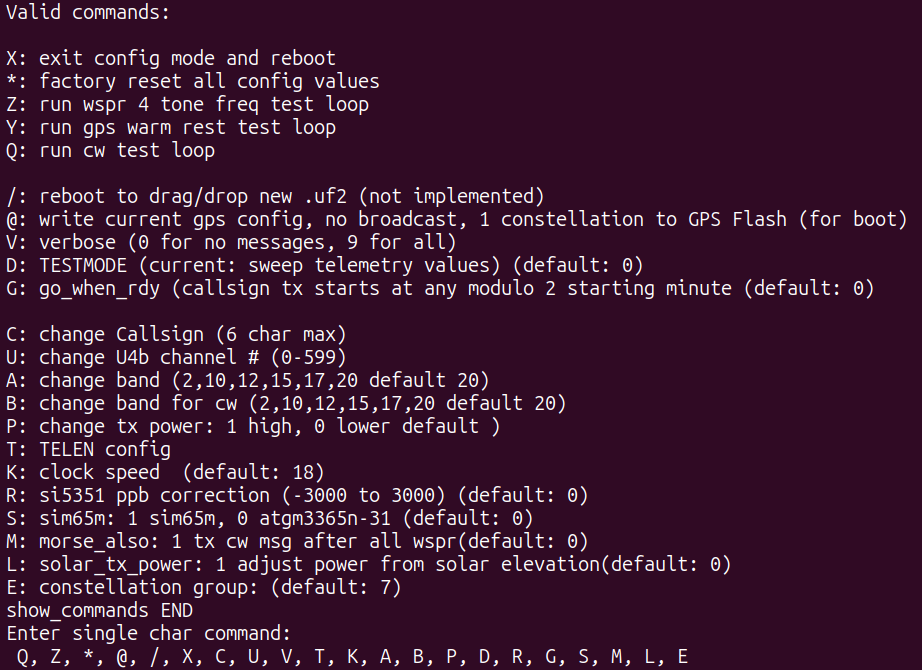
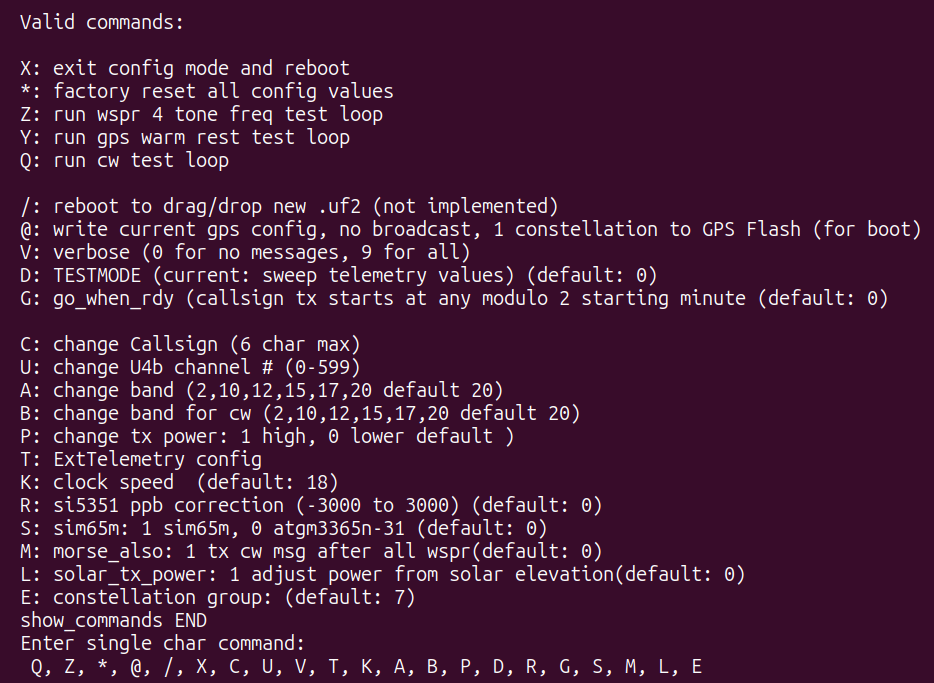
updated all the old TELEN/telen names to ExtTelemetry. only Extended Telemetry is supported, not old u4b TELEN encodings.

Changed region(s): [[0.0, 0.4776, 0.82, 1.0], [0.0, 0.0, 1.0, 0.4478]]

diff --git a/tracker/tele_functions.cpp b/tracker/tele_functions.cpp
@@ -52,10 +52,10 @@ extern TinyGPSCustom gp_hdop;
 extern TinyGPSCustom gp_vdop;
 
 
-extern int TELEN1_val1;
-extern int TELEN1_val2;
-extern int TELEN2_val1;
-extern int TELEN2_val2;
+extern int ExtTelemetry1_val1;
+extern int ExtTelemetry1_val2;
+extern int ExtTelemetry2_val1;
+extern int ExtTelemetry2_val2;
 
 // FIX! update this based on solar elevation
 extern uint8_t SOLAR_SI5351_TX_POWER;
@@ -280,14 +280,14 @@ void snapForTelemetry() {
     voltage = clamp_float(voltage, 0, 99.99);
     snprintf(tt.voltage, sizeof(tt.voltage), "%.2f", voltage);
 
-    // FIX! could use this for some TELEN telemetry?
+    // FIX! could use this for some Extended Telemetry
     int hdop = gps.hdop.isValid() ? (int) gps.hdop.value() : 0;
     // hundredths. <100 is very good
     // can get >999 from the gps, but we don't tx it (usually?)
     hdop = clamp_int(hdop, 0, 999);
     snprintf(tt.hdop, sizeof(tt.hdop), "%d", hdop);
 
-    // FIX! could use this for some TELEN telemetry?
+    // FIX! could use this for some Extended Telemetry
     int sat_count = gps.satellites.isValid() ? (int) gps.satellites.value() : 0;
     sat_count = clamp_int(sat_count, 0, 99);
     snprintf(tt.sat_count, sizeof(tt.sat_count), "%d", sat_count);
@@ -381,10 +381,10 @@ void snapForTelemetry() {
 
     //*********************************
     // snap for consistency with everything else (all at one instant in time)
-    tt.TELEN1_val1 = TELEN1_val1;
-    tt.TELEN1_val2 = TELEN1_val2;
-    tt.TELEN2_val1 = TELEN2_val1;
-    tt.TELEN2_val2 = TELEN2_val2;
+    tt.ExtTelemetry1_val1 = ExtTelemetry1_val1;
+    tt.ExtTelemetry1_val2 = ExtTelemetry1_val2;
+    tt.ExtTelemetry2_val1 = ExtTelemetry2_val1;
+    tt.ExtTelemetry2_val2 = ExtTelemetry2_val2;
 
     bool validA = gps.satellites.isValid() && !GpsInvalidAll;
     // bool validB = gps.hdop.isValid() && !GpsInvalidAll;
@@ -468,10 +468,10 @@ void snapForTelemetry() {
     V1_printf("tt.temp_ext %s" EOL, tt.temp);
     V1_printf("tt.pressure %s " EOL, tt.pressure);
 
-    // V1_printf("tt.TELEN1_val1 %d " EOL, tt.TELEN1_val1);
-    // V1_printf("tt.TELEN1_val2 %d " EOL, tt.TELEN1_val2);
-    // V1_printf("tt.TELEN2_val1 %d " EOL, tt.TELEN2_val1);
-    // V1_printf("tt.TELEN2_val2 %d " EOL, tt.TELEN2_val2);
+    // V1_printf("tt.ExtTelemetry1_val1 %d " EOL, tt.ExtTelemetry1_val1);
+    // V1_printf("tt.ExtTelemetry1_val2 %d " EOL, tt.ExtTelemetry1_val2);
+    // V1_printf("tt.ExtTelemetry2_val1 %d " EOL, tt.ExtTelemetry2_val1);
+    // V1_printf("tt.ExtTelemetry2_val2 %d " EOL, tt.ExtTelemetry2_val2);
 
     V1_printf("tt.gp_sats %s " EOL, tt.gp_sats);
     V1_printf("tt.gb_sats %s " EOL, tt.gb_sats);
@@ -487,8 +487,8 @@ void snapForTelemetry() {
 }
 
 //****************************************************
-void process_TELEN_data(void) {
-    V1_println(F("process_TELEN_data START"));
+void process_ExtTele_data(void) {
+    V1_println(F("process_ExtTele_data START"));
     // minutes_since_GPS_acquistion (should this be last time to fix);
     // we don't send stuff out if we don't get gps acquistion.
     // so minutes since fix doesn't really matter?
@@ -498,53 +498,53 @@ void process_TELEN_data(void) {
     // the 12 bit shift is because thats resolution of ADC
     const float conversionFactor = 3300.0f / (1 << 12);
 
-    uint32_t telen_values[4] = { 0 };
+    uint32_t telemetry_vals[4] = { 0 };
     uint32_t timeSinceBoot_secs = millis() / 1000UL;  // seconds
     for (int i=0; i < 4; i++) {
         // no negative values here
-        switch (cc._TELEN_config[i]) {
-            case '-':  break;  // do nothing, telen chan is disabled
+        switch (cc._ExtTelemetry[i]) {
+            case '-':  break;  // do nothing
             case '0':
-                telen_values[i] = round((float)analogRead(0) * conversionFactor);
+                telemetry_vals[i] = round((float)analogRead(0) * conversionFactor);
                 break;
             case '1':
-                telen_values[i] = round((float)analogRead(1) * conversionFactor);
+                telemetry_vals[i] = round((float)analogRead(1) * conversionFactor);
                 break;
             case '2':
-                telen_values[i] = round((float)analogRead(2) * conversionFactor);
+                telemetry_vals[i] = round((float)analogRead(2) * conversionFactor);
                 break;
             case '3':
                 // ADC3 is hardwired to Battery via 3:1 voltage divider: make the conversion here
-                telen_values[i] = round((float)analogRead(3) * conversionFactor * 3.0f);
+                telemetry_vals[i] = round((float)analogRead(3) * conversionFactor * 3.0f);
                 break;
             case '4':
-                telen_values[i] = timeSinceBoot_secs;  // seconds since running
+                telemetry_vals[i] = timeSinceBoot_secs;  // seconds since running
                 break;
             case '5':
-                telen_values[i] = GpsTimeToLastFix; 
+                telemetry_vals[i] = GpsTimeToLastFix; 
                 break;
             case '6':
-                telen_values[i] = tx_cnt_0;
+                telemetry_vals[i] = tx_cnt_0;
                 break;
             case '7':
-                telen_values[i] = atoi(tt.sat_count);
+                telemetry_vals[i] = atoi(tt.sat_count);
                 break;
             case '8':
-                telen_values[i] = atoi(tt.hdop);  // hundredths
+                telemetry_vals[i] = atoi(tt.hdop);  // hundredths
                 break;
             case '9': { ; }
-                telen_values[i] = 0;
+                telemetry_vals[i] = 0;
         }
     }
-    // will get sent as TELEN #1 (extended Telemetry) (a third packet in the U4B protocol)
-    TELEN1_val1 = telen_values[0];
+    // will get sent as ExtTele #1 (extended Telemetry) (a third packet in the U4B protocol)
+    ExtTelemetry1_val1 = telemetry_vals[0];
     // max values are 630k and 153k for val and val2
-    TELEN1_val2 = telen_values[1];
-    // will get sent as TELEN #2 (extended Telemetry) (a 4th packet in the U4B protocol)
-    TELEN2_val1 = telen_values[2];
+    ExtTelemetry1_val2 = telemetry_vals[1];
+    // will get sent as ExtTele #2 (extended Telemetry) (a 4th packet in the U4B protocol)
+    ExtTelemetry2_val1 = telemetry_vals[2];
     // max values are 630k and 153k for val and val2
-    TELEN2_val2 = telen_values[3];
-    V1_println(F("process_TELEN_data END"));
+    ExtTelemetry2_val2 = telemetry_vals[3];
+    V1_println(F("process_ExtTele_data END"));
 }
 //****************************************************
 // isFloat tells you the string is float not string
@@ -616,20 +616,20 @@ void telemetrySweepAllForTest(void) {
     doTelemetrySweepInteger(tt.hdop, 3, 0, 999, 1);              // 3 bytes
 
     // not sure of what the range is (max for the integer allowed?)
-    static char telen1_str1[25] = { 0 };
-    static char telen1_str2[25] = { 0 };
-    static char telen2_str1[25] = { 0 };
-    static char telen2_str2[25] = { 0 };
+    static char telemetry1_str1[25] = { 0 };
+    static char telemetry1_str2[25] = { 0 };
+    static char telemetry2_str1[25] = { 0 };
+    static char telemetry2_str2[25] = { 0 };
 
-    doTelemetrySweepInteger(telen1_str1, 24, 0, 999, 1);  // 3 bytes
-    doTelemetrySweepInteger(telen1_str2, 24, 0, 999, 1);  // 3 bytes
-    doTelemetrySweepInteger(telen2_str1, 24, 0, 999, 1);  // 3 bytes
-    doTelemetrySweepInteger(telen2_str2, 24, 0, 999, 1);  // 3 bytes
+    doTelemetrySweepInteger(telemetry1_str1, 24, 0, 999, 1);  // 3 bytes
+    doTelemetrySweepInteger(telemetry1_str2, 24, 0, 999, 1);  // 3 bytes
+    doTelemetrySweepInteger(telemetry2_str1, 24, 0, 999, 1);  // 3 bytes
+    doTelemetrySweepInteger(telemetry2_str2, 24, 0, 999, 1);  // 3 bytes
 
-    tt.TELEN1_val1 = atoi(telen1_str1);  // int
-    tt.TELEN1_val2 = atoi(telen1_str2);  // int
-    tt.TELEN2_val1 = atoi(telen2_str1);  // int
-    tt.TELEN2_val2 = atoi(telen2_str2);  // int
+    tt.ExtTelemetry1_val1 = atoi(telemetry1_str1);  // int
+    tt.ExtTelemetry1_val2 = atoi(telemetry1_str2);  // int
+    tt.ExtTelemetry2_val1 = atoi(telemetry2_str1);  // int
+    tt.ExtTelemetry2_val2 = atoi(telemetry2_str2);  // int
 
     V1_printf("TESTMODE tt.course: %s" EOL, tt.course);
     V1_printf("TESTMODE tt.speed: %s" EOL, tt.speed);
@@ -643,10 +643,10 @@ void telemetrySweepAllForTest(void) {
     V1_printf("TESTMODE tt.sat_count: %s" EOL, tt.sat_count);
     V1_printf("TESTMODE tt.hdop: %s" EOL, tt.hdop);
 
-    V1_printf("TESTMODE tt.TELEN1_val1: %x" EOL, tt.TELEN1_val1);
-    V1_printf("TESTMODE tt.TELEN1_val2: %x" EOL, tt.TELEN1_val2);
-    V1_printf("TESTMODE tt.TELEN2_val1: %x" EOL, tt.TELEN2_val1);
-    V1_printf("TESTMODE tt.TELEN2_val2: %x" EOL, tt.TELEN2_val2);
+    V1_printf("TESTMODE tt.ExtTelemetry1_val1: %x" EOL, tt.ExtTelemetry1_val1);
+    V1_printf("TESTMODE tt.ExtTelemetry1_val2: %x" EOL, tt.ExtTelemetry1_val2);
+    V1_printf("TESTMODE tt.ExtTelemetry2_val1: %x" EOL, tt.ExtTelemetry2_val1);
+    V1_printf("TESTMODE tt.ExtTelemetry2_val2: %x" EOL, tt.ExtTelemetry2_val2);
 
     V1_println(F("telemetrySweepAllForTest END"));
 }

diff --git a/tracker/config_functions.cpp b/tracker/config_functions.cpp
@@ -243,23 +243,23 @@ void config_intro(void) {
 }
 
 //***************************************
-void show_TELEN_msg() {
-    V0_print(F("show_TELEN_msg()"));
+void show_ExtTelemetry_msg() {
+    V0_print(F("show_ExtTelemetry_msg()"));
     V0_print(F(EOL "Telen Types:" EOL EOL));
     V0_print(F(BRIGHT UNDERLINE_ON));
-    V0_print(F(EOL EOL EOL EOL "TELEN CONFIG INSTRUCTIONS:" EOL EOL));
+    V0_print(F(EOL EOL EOL EOL "ExtTelemetry CONFIG INSTRUCTIONS:" EOL EOL));
     V0_print(F(UNDERLINE_OFF NORMAL));
-    V0_print(F("* There are 4 possible TELEN values, corresponding to TELEN 1 value 1," EOL));
-    V0_print(F("  TELEN 1 value 2, TELEN 2 value 1 and TELEN 2 value 2." EOL));
-    V0_print(F("* Enter 4 characters (legal 0-9 or -) in TELEN_config." EOL));
+    V0_print(F("* There are 4 possible ExtTelemetry values, corresponding to ExtTelemetry 1 value 1," EOL));
+    V0_print(F("  ExtTelemetry 1 value 2, ExtTelemetry 2 value 1 and ExtTelemetry 2 value 2." EOL));
+    V0_print(F("* Enter 4 characters (legal 0-9 or -) in ExtTelemetry." EOL));
     V0_print(F("  use a '-' (minus) to disable one or more values." EOL));
     V0_print(F("  example:" EOL));
     V0_print(F("  '----' disables all telen " EOL));
     V0_print(F("* example:" EOL));
     V0_print(F("  '01--'" EOL));
-    V0_print(F("    Telen 1 value 1 to type 0" EOL));
-    V0_print(F("    Telen 1 value 2 to type 1" EOL));
-    V0_print(F("    disables all of TELEN 2" EOL));
+    V0_print(F("    ExtTelemetry 1 value 1 to type 0" EOL));
+    V0_print(F("    ExtTelemetry 1 value 2 to type 1" EOL));
+    V0_print(F("    disables all of ExtTelemetry 2" EOL));
 
     V0_print(F(BRIGHT UNDERLINE_ON));
     V0_print(F(EOL "Telen Types:" EOL EOL));
@@ -494,10 +494,10 @@ void user_interface(void) {
                 write_FLASH();
                 break;
             case 'T':
-                show_TELEN_msg();
-                get_user_input("Enter TELEN config: " EOL,
-                    cc._TELEN_config, sizeof(cc._TELEN_config));
-                convertToUpperCase(cc._TELEN_config);
+                show_ExtTelemetry_msg();
+                get_user_input("Enter ExtTelemetry config: " EOL,
+                    cc._ExtTelemetry, sizeof(cc._ExtTelemetry));
+                convertToUpperCase(cc._ExtTelemetry);
                 write_FLASH();
                 break;
             case 'K':
@@ -729,7 +729,7 @@ int read_FLASH(void) {
     // FIX! should we just use snprintf?
     strncpy(cc._callsign,        flash_target_contents + 0,  6); cc._callsign[6] = 0;
     strncpy(cc._verbose,         flash_target_contents + 6,  1); cc._verbose[1] = 0;
-    strncpy(cc._TELEN_config,    flash_target_contents + 7,  4); cc._TELEN_config[4] = 0;
+    strncpy(cc._ExtTelemetry,    flash_target_contents + 7,  4); cc._ExtTelemetry[4] = 0;
     strncpy(cc._clock_speed,     flash_target_contents + 11, 3); cc._clock_speed[3] = 0;
     strncpy(cc._U4B_chan,        flash_target_contents + 14, 3); cc._U4B_chan[3] = 0;
     // FIX! change tocc._band everywhere?
@@ -848,7 +848,7 @@ void write_FLASH(void) {
     // don't take the extra null term (butcc._callsign might be short!)
     strncpy(data_chunk + 0, cc._callsign, 6);
     strncpy(data_chunk + 6, cc._verbose, 1);
-    strncpy(data_chunk + 7, cc._TELEN_config, 4);
+    strncpy(data_chunk + 7, cc._ExtTelemetry, 4);
     strncpy(data_chunk + 11, cc._clock_speed, 3);
     strncpy(data_chunk + 14, cc._U4B_chan, 3);
     strncpy(data_chunk + 17, cc._Band, 2);
@@ -990,17 +990,17 @@ int check_data_validity_and_set_defaults(void) {
     // 0-9 and - are legal.cc._
     // make sure to null terminate
     bool bad = false;
-    if (cc._TELEN_config[0] == 0) {
+    if (cc._ExtTelemetry[0] == 0) {
         bad = true;
     } else {
         for (int i = 0; i <= 3; i++) {
-            if ((cc._TELEN_config[i] < '0' ||cc._TELEN_config[i] > '9') &&cc._TELEN_config[i] != '-') bad = true;
+            if ((cc._ExtTelemetry[i] < '0' ||cc._ExtTelemetry[i] > '9') &&cc._ExtTelemetry[i] != '-') bad = true;
         }
     }
     if (bad) {
-        V0_printf(EOL "ERROR: cc._TELEN_config %s is not supported/legal, initting to ----" EOL,
-           cc._TELEN_config);
-        snprintf(cc._TELEN_config, sizeof(cc._TELEN_config), "----");
+        V0_printf(EOL "ERROR: cc._ExtTelemetry %s is not supported/legal, initting to ----" EOL,
+           cc._ExtTelemetry);
+        snprintf(cc._ExtTelemetry, sizeof(cc._ExtTelemetry), "----");
         write_FLASH();
         result = -1;
     }
@@ -1211,7 +1211,7 @@ void show_values(void) {
     V0_printf(" lane: %s)" EOL, cc._lane);
     V0_printf("P: tx_high: %s" EOL, cc._tx_high);
     V0_printf("V: verbose: %s" EOL, cc._verbose);
-    V0_printf("T: TELEN config: %s" EOL, cc._TELEN_config);
+    V0_printf("T: ExtTelemetry config: %s" EOL, cc._ExtTelemetry);
     V0_printf("K: clock speed: %s (Mhz)" EOL, cc._clock_speed);
     V0_printf("D: TESTMODE: %s" EOL, cc._testmode);
     V0_printf("R: correction: %s (* 1e-9)" EOL, cc._correction);
@@ -1255,7 +1255,7 @@ void show_commands(void) {
     V0_println(F("A: change band (2,10,12,15,17,20 default 20)"));
     V0_println(F("B: change band for cw (2,10,12,15,17,20 default 20)"));
     V0_println(F("P: change tx power: 1 high, 0 lower default )"));
-    V0_println(F("T: TELEN config"));
+    V0_println(F("T: ExtTelemetry config"));
     V0_printf("K: clock speed  (default: %lu)" EOL,  DEFAULT_PLL_SYS_MHZ);
     V0_println(F("R: si5351 ppb correction (-3000 to 3000) (default: 0)"));
     V0_println(F("S: sim65m: 1 sim65m, 0 atgm3365n-31 (default: 0)"));
@@ -1271,7 +1271,7 @@ void doFactoryReset() {
     V0_println(F("doFactoryReset START"));
     snprintf(cc._callsign, sizeof(cc._callsign), "AB1CDE");
     snprintf(cc._verbose, sizeof(cc._verbose), "1");
-    snprintf(cc._TELEN_config, sizeof(cc._TELEN_config), "----");
+    snprintf(cc._ExtTelemetry, sizeof(cc._ExtTelemetry), "----");
     snprintf(cc._clock_speed, sizeof(cc._clock_speed), "%lu", DEFAULT_PLL_SYS_MHZ);
     snprintf(cc._U4B_chan, sizeof(cc._U4B_chan), "%s", "599");  // always 3 chars?
     snprintf(cc._Band, sizeof(cc._Band), "20");

diff --git a/tracker/global_structs.h b/tracker/global_structs.h
@@ -20,7 +20,7 @@ typedef struct ConfigStruct_ {
     // hmmm. can't declare these arrays 'volatile'
     char _callsign[7];
     char _verbose[2];   // 0 is used to disable all. 1 is all printing for now. 2:9 same
-    char _TELEN_config[5];
+    char _ExtTelemetry[5];
     // FIX! why is this a compiler problem if volatile? an snprintf() fails
     // https://forum.arduino.cc/t/invalid-conversion-from-volatile-char-to-const-char-fpermissive/949522
     char _clock_speed[4];
@@ -117,10 +117,10 @@ typedef struct TeleStruct_ {
 
     int snap_cnt;
 
-    int TELEN1_val1;
-    int TELEN1_val2;
-    int TELEN2_val1;
-    int TELEN2_val2;
+    int ExtTelemetry1_val1;
+    int ExtTelemetry1_val2;
+    int ExtTelemetry2_val1;
+    int ExtTelemetry2_val2;
 } TeleStruct;
 
 #endif // GLOBAL_STRUCTS_H
